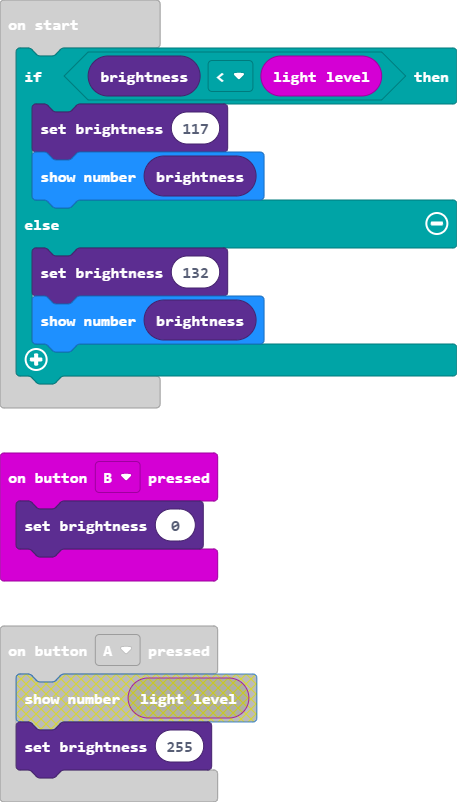
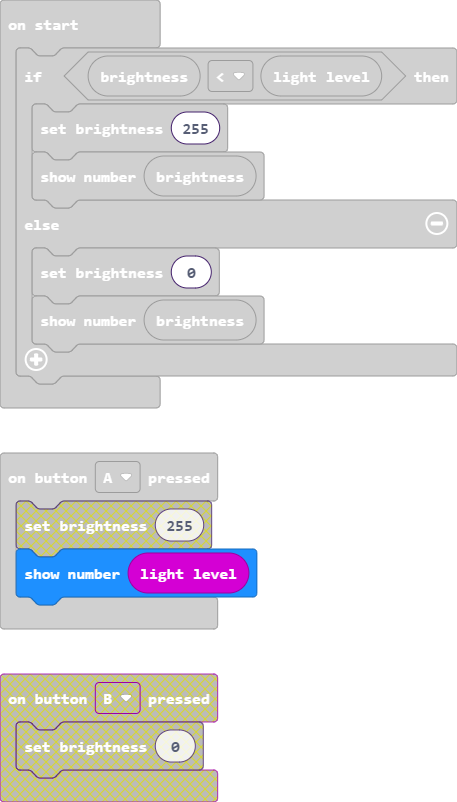
Update pxt.json, main.blocks, main.ts

diff --git a/main.ts b/main.ts
@@ -1,13 +1,10 @@
 input.onButtonPressed(Button.A, function () {
-    led.setBrightness(255)
-})
-input.onButtonPressed(Button.B, function () {
-    led.setBrightness(0)
+    basic.showNumber(input.lightLevel())
 })
 if (led.brightness() < input.lightLevel()) {
-    led.setBrightness(117)
+    led.setBrightness(255)
     basic.showNumber(led.brightness())
 } else {
-    led.setBrightness(132)
+    led.setBrightness(0)
     basic.showNumber(led.brightness())
 }
